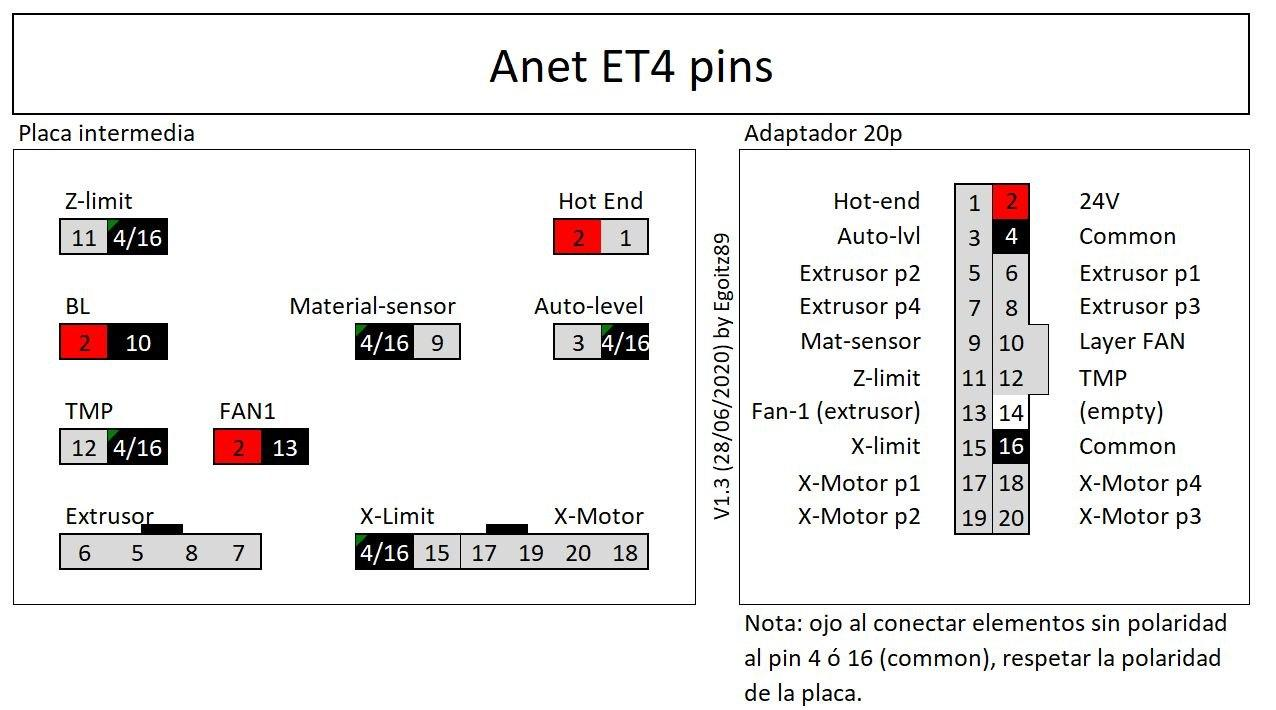
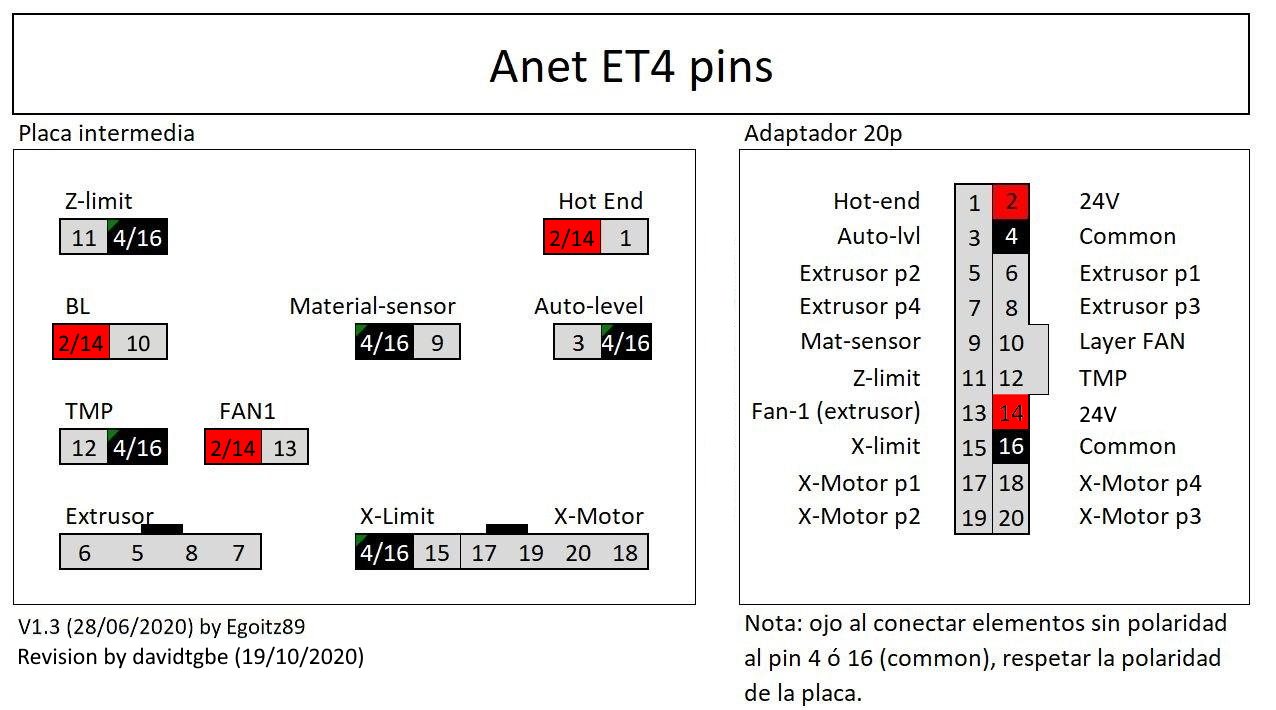
Bltouch tutorial fixes.
- Fixed some connections on interconnection board image.
- Added ET4 board connections image.

diff --git a/docs/Tutorials/bltouch-en.md b/docs/Tutorials/bltouch-en.md
@@ -22,11 +22,15 @@ This mod requires some hardware modifications that will void your warranty. I am
 
 There are no free exposed pins/expansion ports in the ET4/5 motherboard, so, we have to make do with what we have.
 
-If we take a look to the Et4 interconnection board
+Let's tale a look at the existing connections:
 
+**ET4 board interconnection board**
+![et4board](media/et4board.jpg)
+
+**ET4 interconnection board**
 ![pins-et4](media/pins-et4.jpg)
 
-And to the bltouch [specs](https://5020dafe-17d8-4c4c-bf3b-914a8fdd5140.filesusr.com/ugd/f5a1c8_d40d077cf5c24918bd25b6524f649f11.pdf)
+**Bltouch [specs](https://5020dafe-17d8-4c4c-bf3b-914a8fdd5140.filesusr.com/ugd/f5a1c8_d40d077cf5c24918bd25b6524f649f11.pdf)**
 
 ![bltouch-specs](media/bltouch-specs.jpg)
 
@@ -37,7 +41,7 @@ And to the bltouch [specs](https://5020dafe-17d8-4c4c-bf3b-914a8fdd5140.filesusr
 
 ## Powering Bltouch
 
-**Bltouch needs to be feed with 5V**, so we have to connect the **step-down module** to **convert the 24V available on pin 2, to 5V**. We can use a step-down converter like this one
+**Bltouch needs to be feed with 5V**, so we have to connect the **step-down module** to **convert the 24V available on pin 2/14, to 5V**. We can use a step-down converter like this one
 
 ![down-converter](media/down-converter.jpg)
 
@@ -71,13 +75,13 @@ As I dont't have a hot air gun to desolder the components, I have used two solde
 Once we have desoldered the resitor and capacitor, we need to wire all the things up.
 
 **Connections Summary:**
-- Power GND (Pin 4/16) **<=>** (In -) Step down converter (Out -) **<=>** Bltouch Brown wire
-- Power VCC (Pin 2) **<=>** (In +) Step down converter (5V Out +) **<=>** Bltouch Red wire
-- Zmin (Pin 11) **<=>** Bltouch White wire
-- Zmin GND (Pin 4/16) **<=>** Bltouch Black wire
-- Servo/Control (Pin 3) **<=>** Bltouch Orange wire
+- Power GND (Pin 4/16) **<=>** (In -) Step down converter (Out -) **<=>** Bltouch Power GND (Brown wire)
+- Power VCC (Pin 2/14) **<=>** (In +) Step down converter (5V Out +) **<=>** Bltouch VCC (Red wire)
+- Zmin (Pin 11) **<=>** Bltouch Zmin (White wire)
+- Zmin GND (Pin 4/16) **<=>** Bltouch Signal GND (Black wire)
+- Servo/Control (Pin 3) **<=>** Bltouch Control Signal (Orange wire)
 
-We are going to need [JST splitters](https://es.aliexpress.com/item/32807855922.html) (you can buy them or do it yourself), or employ any other solution which allows us to **share an already used pin** (like pin 2 (24V)) in the interconnection board.
+We are going to need [JST splitters](https://es.aliexpress.com/item/32807855922.html) (you can buy them or do it yourself), or employ any other solution which allows us to **share an already used pin** (like pin 2/14 (24V)) in the interconnection board.
 
 ![jst-splitter](media/jst-splitter.jpg)
 
